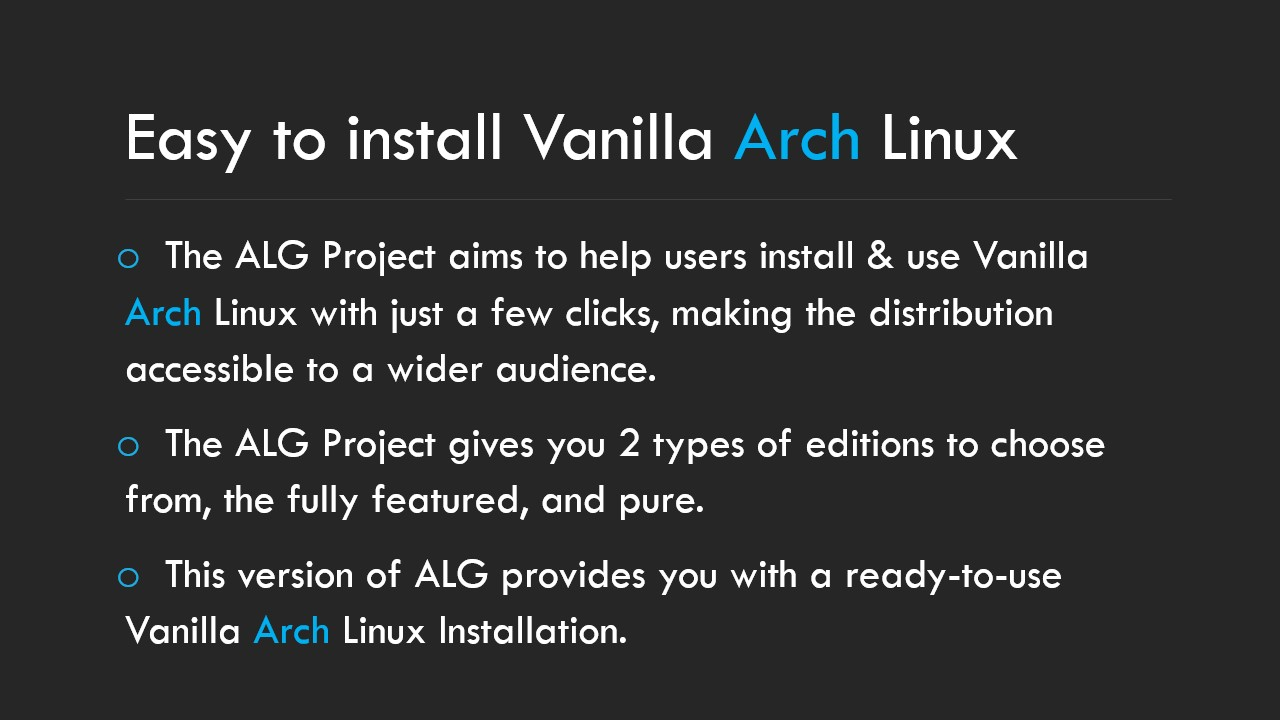
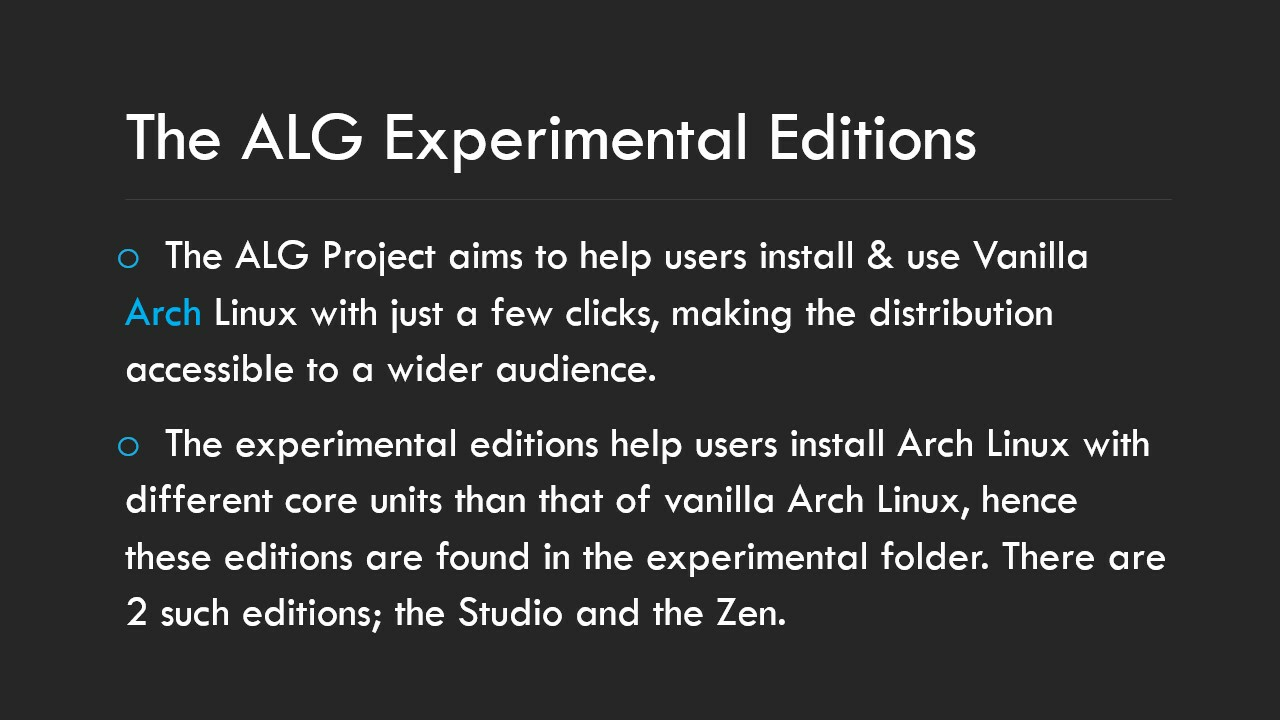
updated branding

Changed region(s): [[0.0938, 0.6722, 0.9062, 0.9167], [0.0938, 0.1528, 0.8125, 0.2444], [0.1875, 0.5806, 0.9062, 0.6417]]

diff --git a/etc/calamares/branding/default/show.qml b/etc/calamares/branding/default/show.qml
@@ -182,6 +182,40 @@ Presentation
         }
     }
 
+    Slide
+    {
+        anchors.fill: parent
+        anchors.verticalCenterOffset: 0
+
+        Image
+        {
+            id: background10
+            source: "slide10.png"
+            width: parent.width; height: parent.height
+            horizontalAlignment: Image.AlignCenter
+            verticalAlignment: Image.AlignTop
+            fillMode: Image.Stretch
+            anchors.fill: parent
+        }
+    }
+
+    Slide
+    {
+        anchors.fill: parent
+        anchors.verticalCenterOffset: 0
+
+        Image
+        {
+            id: background11
+            source: "slide11.png"
+            width: parent.width; height: parent.height
+            horizontalAlignment: Image.AlignCenter
+            verticalAlignment: Image.AlignTop
+            fillMode: Image.Stretch
+            anchors.fill: parent
+        }
+    }
+
 
     // When this slideshow is loaded as a V1 slideshow, only
     // activatedInCalamares is set, which starts the timer (see above).
